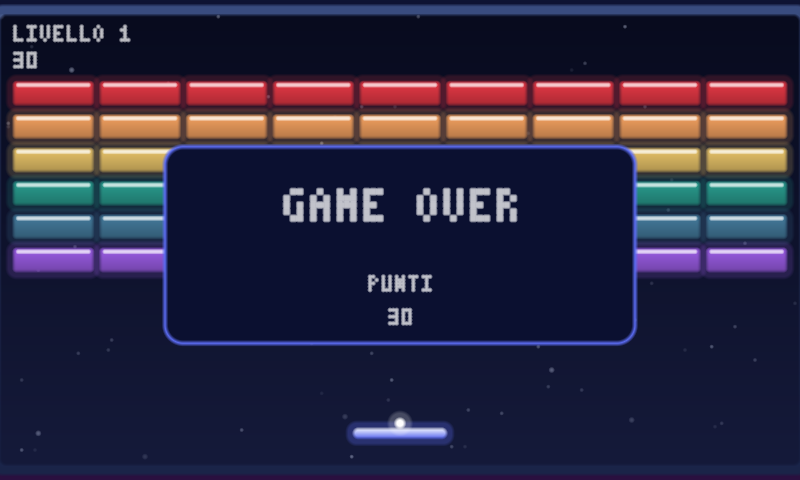
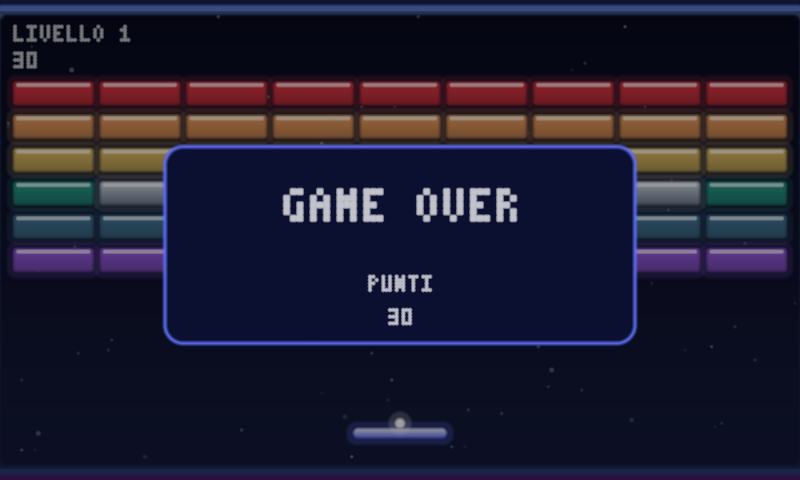
Wilkanoid: playtest fixes
Level 1 gets steel bricks, level 4 becomes all steel. Corner hits bounce
on one axis only. Bricks overlapping the bounce point break in the same tick.
Fire during the life-lost pause launches afterwards. Title and end screens
get a scrim; the press-space prompt is larger.

Claude-Session: https://claude.ai/code/session_01AVhvvKEf1rvKF1AvUztBjZ

Changed region(s): [[0.0, 0.0, 1.0, 0.5938], [0.0, 0.9688, 1.0, 1.0], [0.4062, 0.8438, 0.5938, 0.9375]]

diff --git a/games/wilkanoid/src/lib.rs b/games/wilkanoid/src/lib.rs
@@ -40,10 +40,10 @@ pub const CRACKED: u8 = 3;
 
 /// Livelli: '0' vuoto, '1' mattone normale, '2' acciaio (due colpi).
 pub const LEVELS: [[&[u8; COLS]; ROWS]; 4] = [
-    [b"111111111", b"111111111", b"111111111", b"111111111", b"111111111", b"111111111"],
+    [b"111111111", b"111111111", b"111111111", b"121111121", b"111111111", b"111111111"],
     [b"000010000", b"000111000", b"001111100", b"011111110", b"111111111", b"101010101"],
     [b"222022022", b"111111111", b"202020202", b"111111111", b"222222222", b"010101010"],
-    [b"000020000", b"000121000", b"001212100", b"012121210", b"001212100", b"000121000"],
+    [b"000020000", b"000222000", b"002222200", b"022222220", b"222222222", b"022222220"],
 ];
 
 #[derive(Clone, Copy, PartialEq, Eq, Debug)]
@@ -91,6 +91,8 @@ pub struct Game {
     pub cells: [[u8; COLS]; ROWS],
     /// Power-up che cadono.
     pub drops: [Option<(i32, i32)>; 4],
+    /// Fire premuto durante la perdita di vita: lancia alla fine della pausa.
+    pub launch: bool,
     pub trail: [(i32, i32); TRAIL],
     pub parts: [Part; PARTS],
     timer: u32,
@@ -111,6 +113,7 @@ impl Game {
             vel: (0, 0),
             cells: [[EMPTY; COLS]; ROWS],
             drops: [None; 4],
+            launch: false,
             trail: [(0, 0); TRAIL],
             parts: [Part::default(); PARTS],
             timer: 0,
@@ -153,7 +156,11 @@ impl Game {
                     }
                 }
             },
-            Phase::Lost => {}
+            Phase::Lost => {
+                if c == Cmd::Fire {
+                    self.launch = true;
+                }
+            }
         }
     }
 
@@ -164,6 +171,11 @@ impl Game {
                 self.timer = self.timer.saturating_sub(1);
                 if self.timer == 0 {
                     self.phase = Phase::Ready;
+                    if self.launch {
+                        self.launch = false;
+                        self.phase = Phase::Play;
+                        self.vel = (VX_MAX / 2, -VY);
+                    }
                 }
             }
             Phase::Play => self.play(),
@@ -278,8 +290,9 @@ impl Game {
             }
         }
 
-        // Mattoni: al primo colpo si rimbalza e si esce.
-        'bricks: for r in 0..ROWS {
+        // Mattoni: il primo colpo rimbalza; gli altri mattoni sfiorati nello stesso tick si rompono senza rimbalzo.
+        let mut bounced = false;
+        for r in 0..ROWS {
             for c in 0..COLS {
                 if self.cells[r][c] == EMPTY {
                     continue;
@@ -290,17 +303,23 @@ impl Game {
                 if x < bx0 - BALL_R || x > bx1 + BALL_R || y < by0 - BALL_R || y > by1 + BALL_R {
                     continue;
                 }
-                let from_above_below = !(py >= by0 && py <= by1);
-                let from_side = !(px >= bx0 && px <= bx1);
-                if from_above_below || !from_side {
-                    let up = py < by0;
-                    vy = if up { -vy.abs() } else { vy.abs() };
-                    y = if up { by0 - BALL_R } else { by1 + BALL_R };
-                }
-                if from_side {
-                    let left = px < bx0;
-                    vx = if left { -vx.abs() } else { vx.abs() };
-                    x = if left { bx0 - BALL_R } else { bx1 + BALL_R };
+                if !bounced {
+                    // Colpo da sopra/sotto: rimbalzo verticale. Da lato: orizzontale. Angolo: solo verticale.
+                    let from_above_below = !(py >= by0 && py <= by1);
+                    let from_side = !(px >= bx0 && px <= bx1);
+                    let vertical = from_above_below || !from_side;
+                    let horizontal = from_side && !from_above_below;
+                    if vertical {
+                        let up = py < by0;
+                        vy = if up { -vy.abs() } else { vy.abs() };
+                        y = if up { by0 - BALL_R } else { by1 + BALL_R };
+                    }
+                    if horizontal {
+                        let left = px < bx0;
+                        vx = if left { -vx.abs() } else { vx.abs() };
+                        x = if left { bx0 - BALL_R } else { bx1 + BALL_R };
+                    }
+                    bounced = true;
                 }
                 let cell = self.cells[r][c];
                 let pts = (self.level as u32 + 1) * if cell == NORMAL { 10 } else if cell == STEEL { 5 } else { 20 };
@@ -316,7 +335,6 @@ impl Game {
                         *slot = Some((bx0 + BW / 2 * SUB, by0));
                     }
                 }
-                break 'bricks;
             }
         }
         self.ball = (x, y);

diff --git a/games/wilkanoid/src/render.rs b/games/wilkanoid/src/render.rs
@@ -364,9 +364,10 @@ pub fn render(g: &Game, px: &mut [u32], w: usize, h: usize) {
 
     match g.phase {
         Phase::Title => {
+            c.rr_a(-1.0, -1.0, pw + 1.0, ph + 1.0, 0.5, 0xFF000000, 0xFF000000, 0.5);
             c.panel(30.0, 40.0, 210.0, 98.0);
             c.text_c(b"WILKANOID", 52.0, 3.0, TXT);
-            c.text_c(b"PREMI SPAZIO", 80.0, 1.0, TXT);
+            c.text_c(b"PREMI SPAZIO", 80.0, 2.0, TXT);
         }
         Phase::Ready => c.text_c(b"PREMI SPAZIO", 96.0, 1.0, TXT),
         Phase::Lost => {
@@ -374,6 +375,7 @@ pub fn render(g: &Game, px: &mut [u32], w: usize, h: usize) {
             c.text_c(b"VITA PERSA", 62.0, 2.0, TXT);
         }
         Phase::Over | Phase::Won => {
+            c.rr_a(-1.0, -1.0, pw + 1.0, ph + 1.0, 0.5, 0xFF000000, 0xFF000000, 0.5);
             c.panel(50.0, 40.0, 190.0, 98.0);
             let title: &[u8] = if g.phase == Phase::Over { b"GAME OVER" } else { b"VITTORIA" };
             c.text_c(title, 52.0, 2.0, TXT);
